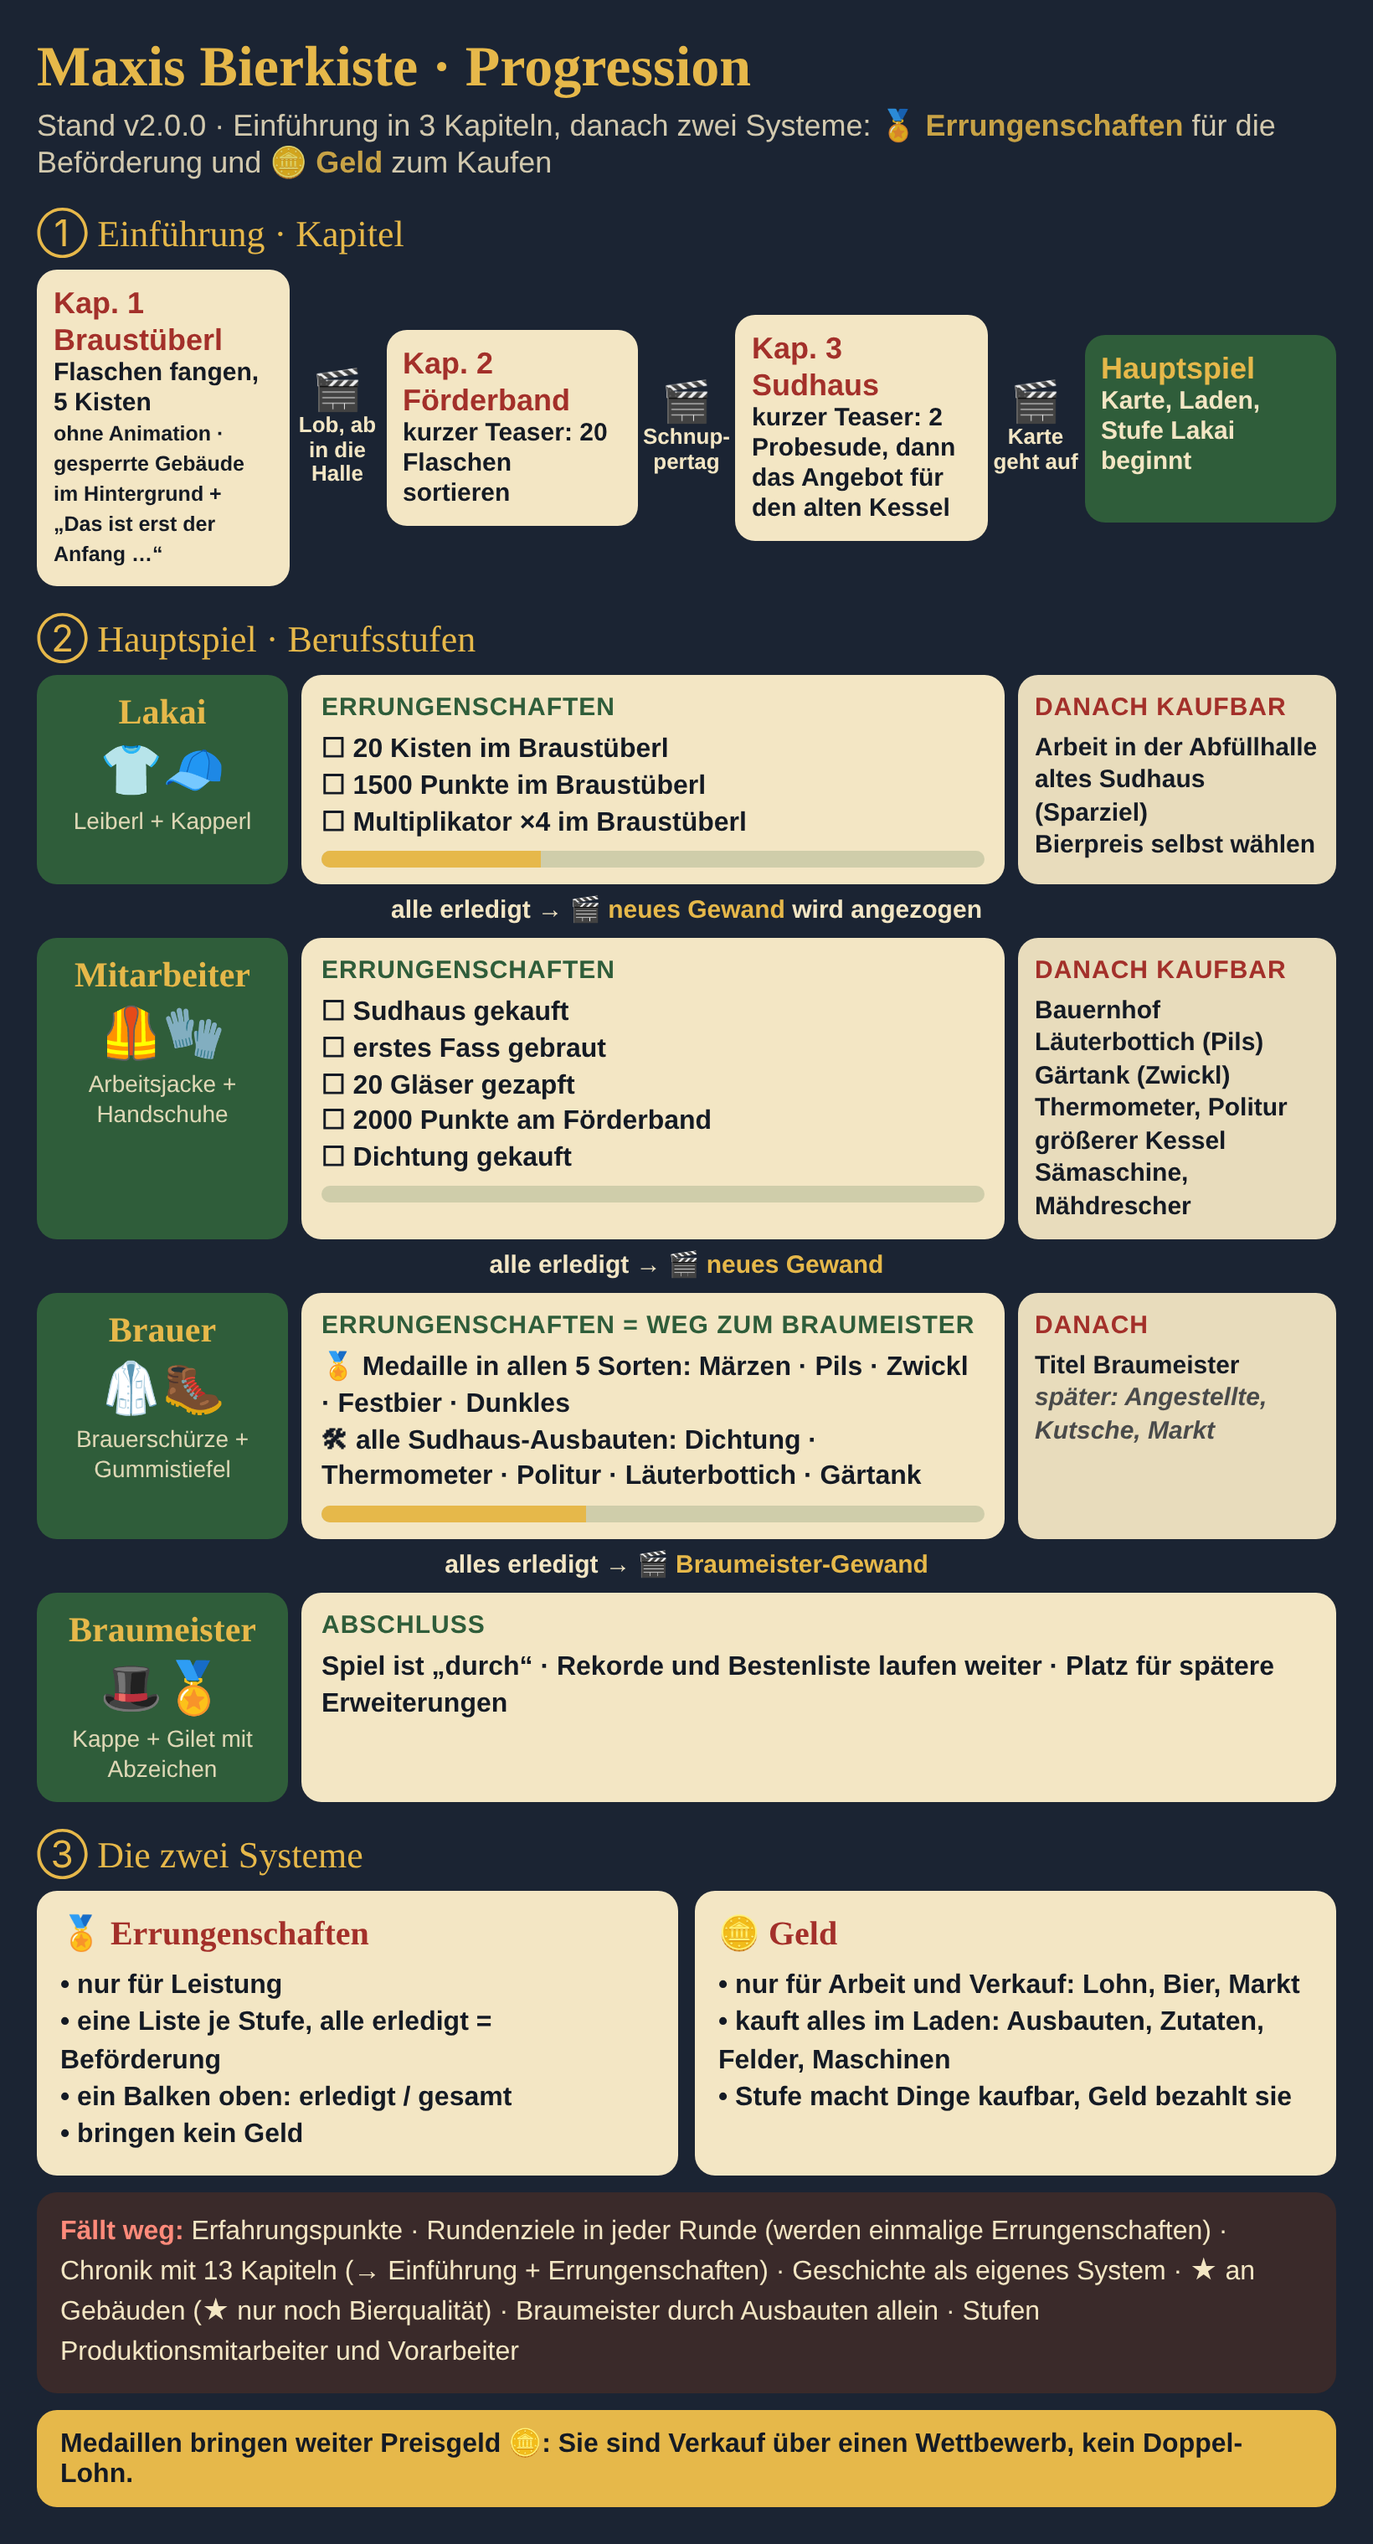
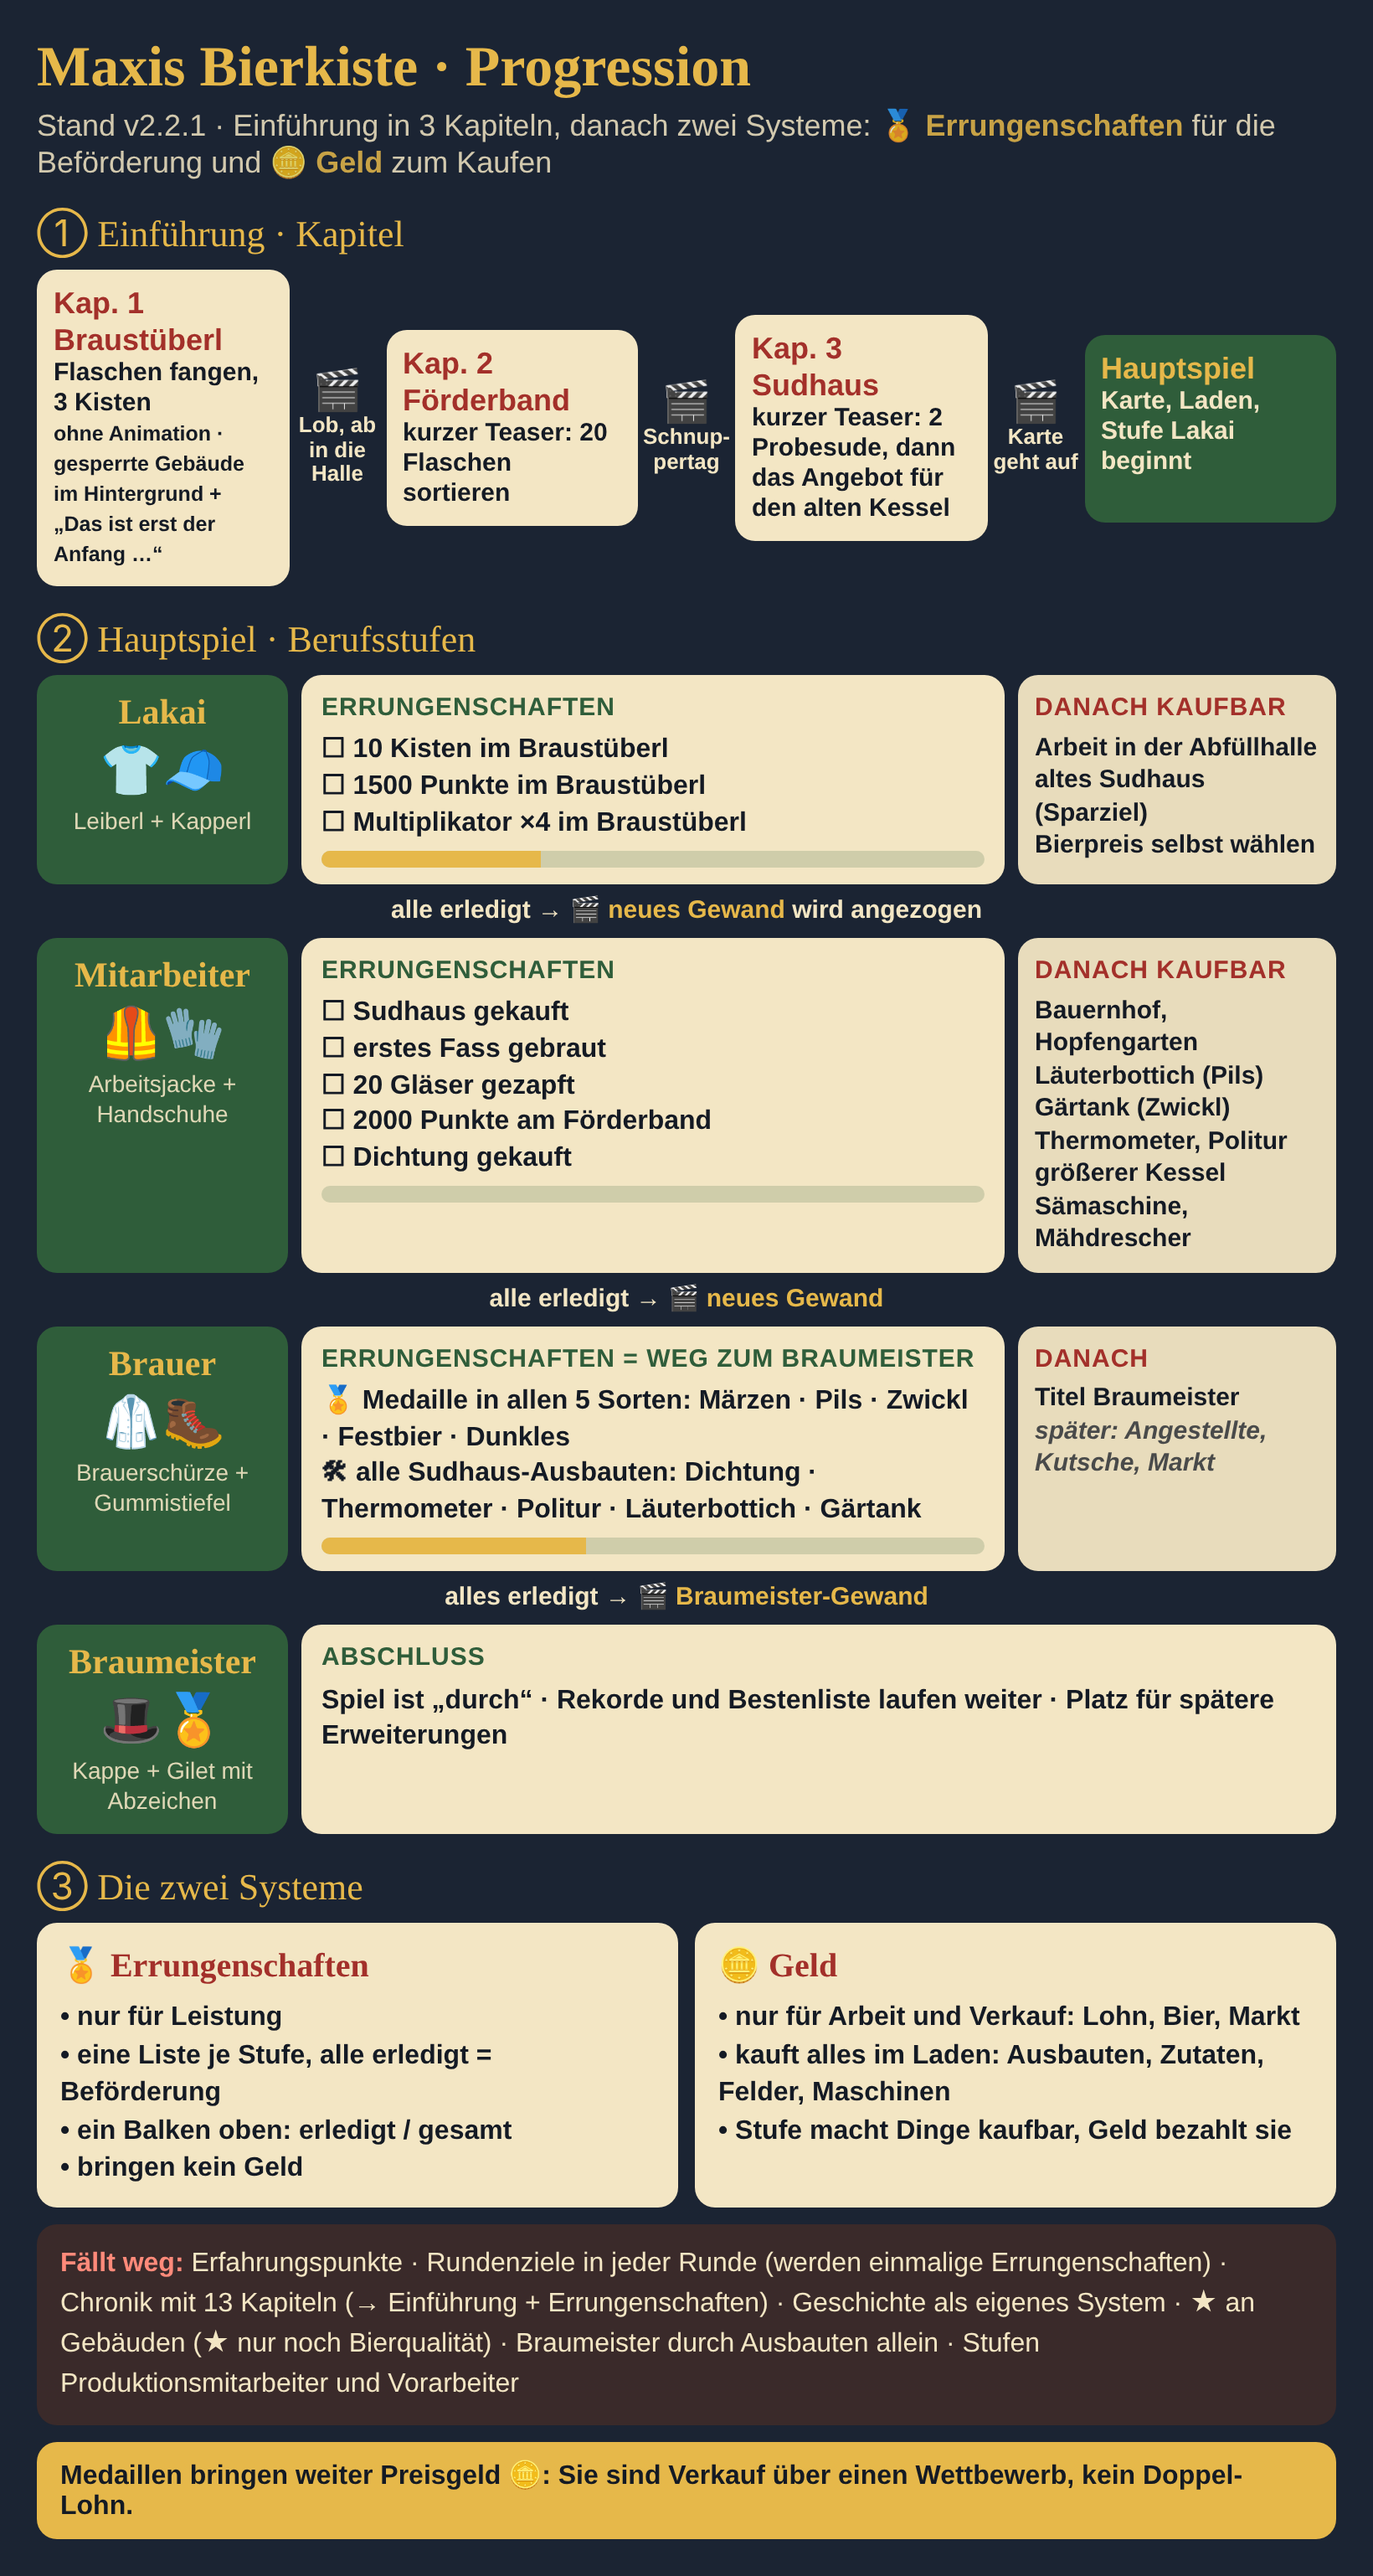
Maxi v2.2.1: Kapitel 1 nach 3 Kisten, Lakai braucht 10 Kisten
Claude-Session: https://claude.ai/code/session_01Gkkh1fuzQ6mRC4TS1qKwA5

diff --git a/apps/maxi/index.html b/apps/maxi/index.html
@@ -1666,7 +1666,7 @@ function scoreAch(){
 function goalInfo(){
   // Ziel im HUD: in der Einführung das Kapitel, danach eine offene Punkte-Errungenschaft
   if (stage >= 4) return null;
-  if (stage === 1 && ECO.story === 0) return { hud: `Kapitel 1 · ${Math.min(st().crates, 5)} / 5 Kisten`, head: 'Kapitel 1: Fülle 5 Kisten', sub: 'Fang die Flaschen und bring volle Kisten zur Abgabe. Das ist erst der Anfang …' };
+  if (stage === 1 && ECO.story === 0) return { hud: `Kapitel 1 · ${Math.min(st().crates, KAP1)} / ${KAP1} Kisten`, head: `Kapitel 1: Fülle ${KAP1} Kisten`, sub: 'Fang die Flaschen und bring volle Kisten zur Abgabe. Das ist erst der Anfang …' };
   if (stage === 2 && ECO.story === 1) return { hud: `Kapitel 2 · ${Math.min(L2.sorted, STORY_SORT)} / ${STORY_SORT} sortiert`, head: `${STORY_SORT} Flaschen sortieren`, sub: 'Dann holt dich der Braumeister ins Sudhaus.' };
   if (stage === 3 && L3.trial) return { hud: `Kapitel 3 · Probe ${Math.min(2, L3.brews)} / 2 Sude` };
   const a = scoreAch(); if (!a) return null;
@@ -1907,8 +1907,9 @@ function drawMedal(x, y, lv, s = 1){
    Eine Stufe macht Dinge im Laden kaufbar, bezahlt wird mit Talern. Übersicht: apps/maxi/docs/progression.md */
 const medalCount = (lv = 1) => Object.values(ECO.medals).filter(v => v >= lv).length;
 const st = () => ECO.stats;
+const KAP1 = 3; // volle Kisten bis zum Ende von Kapitel 1
 const KAPITEL = [
-  { t: 'Braustüberl', goal: 'Fülle 5 Kisten', p: () => [st().crates, 5] },
+  { t: 'Braustüberl', goal: `Fülle ${KAP1} Kisten`, p: () => [st().crates, KAP1] },
   { t: 'Förderband', goal: 'Sortiere die Flaschen am Band', p: () => [0, 1] },
   { t: 'Sudhaus', goal: 'Braue zwei Probesude', p: () => [0, 1] }
 ];
@@ -1916,7 +1917,7 @@ const topOf = s => Math.max(s === 1 ? best : s === 2 ? best2 : 0, (st().top || {
 const UPG5 = [['seal', 'Dichtung'], ['thermo', 'Thermometer'], ['copper', 'Politur'], ['lauter', 'Läuterbottich'], ['cellar', 'Gärtank']];
 // je Stufe die Errungenschaften für die nächste; st/pts: Punkteziel in einem Spiel (zeigt das HUD)
 const ACH = [
-  [ { id: 'l-kisten', t: '20 Kisten im Braustüberl', p: () => [st().crates, 20] },
+  [ { id: 'l-kisten', t: '10 Kisten im Braustüberl', p: () => [st().crates, 10] },
     { id: 'l-1500', t: '1500 Punkte im Braustüberl', st: 1, pts: 1500, p: () => [topOf(1), 1500] },
     { id: 'l-mult', t: 'Multiplikator ×4 im Braustüberl', p: () => [st().mult1 || 1, 4] } ],
   [ { id: 'm-sud', t: 'Sudhaus gekauft', p: () => [ECO.ownSud ? 1 : 0, 1] },
@@ -1938,7 +1939,7 @@ function progInit(){
   if (v >= 2) return;
   // alte Spielstände: Produktionsmitarbeiter und Vorarbeiter gibt es nicht mehr, schon Erreichtes zählt still
   rank = ECO.story >= 3 && rank >= 1 ? 1 : 0;
-  if (ECO.story >= 1) ECO.stats.crates = Math.max(ECO.stats.crates, 5);
+  if (ECO.story >= 1) ECO.stats.crates = Math.max(ECO.stats.crates, KAP1);
   for (const [n, k] of Object.entries(ECO.keller || {})){ ECO.stats.byName[n] = Math.max(ECO.stats.byName[n] || 0, k.f); ECO.stats.fass = Math.max(ECO.stats.fass, ECO.fass >= 1 ? 1 : 0); }
   if (ECO.story >= 3) while (rank < 3 && achAll(rank)) rank++;
   ECO.achSeen = ACH.flat().filter(achOk).map(a => a.id);
@@ -3628,9 +3629,9 @@ function renderMap(){
 }
 
 function checkPromo(){
-  // Punkte-Errungenschaft im laufenden Spiel erreicht; Kapitel 1 endet nach 5 Kisten
+  // Punkte-Errungenschaft im laufenden Spiel erreicht; Kapitel 1 endet nach KAP1 Kisten
   if (state !== 'play') return;
-  if (stage === 1 && ECO.story === 0 && st().crates >= 5){ storyHall(); return; }
+  if (stage === 1 && ECO.story === 0 && st().crates >= KAP1){ storyHall(); return; }
   if (Math.floor(tTotal*2) !== checkPromo.k){ checkPromo.k = Math.floor(tTotal*2); achWatch(); }
   if (goalHit) return; const a = scoreAch(); if (!a || score < a.pts) return;
   goalHit = true; st().top[stage] = Math.max(st().top[stage] || 0, score); saveEco();
@@ -3711,7 +3712,7 @@ function renderDress(){
    ECO.story: 0 Bar, 1 Förderband, 2 Schnuppertag im Sudhaus, 3 Karte offen */
 const SCENES = {
   hall: [
-    { bg: 'nice', who: 'bm', text: 'Maxi! Fünf volle Kisten und kaum eine Flasche kaputt. Saubere Arbeit!' },
+    { bg: 'nice', who: 'bm', text: 'Maxi! Drei volle Kisten und kaum eine Flasche kaputt. Saubere Arbeit!' },
     { bg: 'nice', who: 'maxi', text: 'Danke, Chef! Das macht richtig Spaß.' },
     { bg: 'nice', who: 'bm', text: 'Dann komm mit in die Abfüllhalle. Heute zeig ich dir das Förderband.' }
   ],
@@ -4448,7 +4449,7 @@ for (const el of document.querySelectorAll('[data-legal]')) el.addEventListener(
 $('legalClose').onclick = closeLegal;
 // Spielstand zurücksetzen: erster Tipp fragt nach, zweiter löscht alles außer dem Namen für die Bestenliste
 // Versionsnummer: bei jeder Veröffentlichung erhöhen (Hauptversion.Neue Funktionen.Korrekturen)
-const VERSION = '2.2.0';
+const VERSION = '2.2.1';
 $('verTag').textContent = `v${VERSION}`;
 $('resetBtn').onclick = () => {
   const b = $('resetBtn');

diff --git a/apps/maxi/README.md b/apps/maxi/README.md
@@ -12,14 +12,14 @@ Handyspiel im Hochformat für die Freetown Brewery: Maximilian Weichl steht vor 
 
 Übersicht mit Grafik: [docs/progression.md](docs/progression.md).
 
-**Einführung in 3 Kapiteln:** Kapitel 1 beginnt ohne Animation auf der Karte: Alles außer dem Braustüberl ist gesperrt („später“, „Das ist erst der Anfang …“). Nach 5 vollen Kisten lobt der Braumeister Maxi (Bilderszene) und holt ihn ans Förderband (Kapitel 2, Teaser: 20 Flaschen sortieren). Danach folgt der Schnuppertag im Sudhaus (Kapitel 3, Teaser: 2 Probesude) und das Angebot für den alten Kessel; dann ist die Karte offen (`ftb-eco` → `story` 0 bis 3).
+**Einführung in 3 Kapiteln:** Kapitel 1 beginnt ohne Animation auf der Karte: Alles außer dem Braustüberl ist gesperrt („später“, „Das ist erst der Anfang …“). Nach 3 vollen Kisten lobt der Braumeister Maxi (Bilderszene) und holt ihn ans Förderband (Kapitel 2, Teaser: 20 Flaschen sortieren). Danach folgt der Schnuppertag im Sudhaus (Kapitel 3, Teaser: 2 Probesude) und das Angebot für den alten Kessel; dann ist die Karte offen (`ftb-eco` → `story` 0 bis 3).
 
 **Zwei Systeme:** Errungenschaften (nur Leistung, bringen kein Geld) führen zur nächsten Berufsstufe; Taler (Lohn, Bierverkauf, Preisgeld) kaufen alles im Laden. Eine Stufe macht Dinge kaufbar, bezahlt wird mit Talern. Erfahrungspunkte, Rundenziele in jeder Runde, die Chronik mit 13 Kapiteln und die Sterne an Gebäuden gibt es nicht mehr.
 
 | Stufe | Errungenschaften für die nächste Stufe | danach kaufbar | Gewand |
 |---|---|---|---|
-| Brauereilakai | 20 Kisten im Braustüberl · 1500 Punkte im Braustüberl · Multiplikator ×4 im Braustüberl | Abfüllhalle, altes Sudhaus, eigener Bierpreis | Leiberl und Kapperl |
-| Mitarbeiter | Sudhaus gekauft · erstes Fass · 20 Gläser gezapft · 2000 Punkte am Förderband · Dichtung | Bauernhof, Läuterbottich, Gärtank, Thermometer, Politur, größerer Kessel, Sämaschine, Mähdrescher | Arbeitsjacke und Handschuhe |
+| Brauereilakai | 10 Kisten im Braustüberl · 1500 Punkte im Braustüberl · Multiplikator ×4 im Braustüberl | Abfüllhalle, altes Sudhaus, eigener Bierpreis | Leiberl und Kapperl |
+| Mitarbeiter | Sudhaus gekauft · erstes Fass · 20 Gläser gezapft · 2000 Punkte am Förderband · Dichtung | Bauernhof, Hopfengarten, Läuterbottich, Gärtank, Thermometer, Politur, größerer Kessel, Sämaschine, Mähdrescher | Arbeitsjacke und Handschuhe |
 | Brauer | Medaille in allen 5 Sorten · alle 5 Sudhaus-Ausbauten (Dichtung, Thermometer, Politur, Läuterbottich, Gärtank) | – | Brauerschürze und Gummistiefel |
 | Braumeister | – | – | Braumeisterkappe und Gilet |
 
@@ -117,6 +117,7 @@ Zu Beginn jeder Runde zeigt eine Karte das aktuelle Ziel (bis zum Produktionsmit
 
 Die Versionsnummer steht im Startmenü unten neben „Spielstand zurücksetzen“ (`VERSION` in `index.html`). Schema: Hauptversion.Neue Funktionen.Korrekturen; bei jeder Veröffentlichung erhöhen.
 
+- **2.2.1** – Kapitel 1 endet nach 3 Kisten, Lakai braucht 10 Kisten statt 20
 - **2.2.0** – Hopfengarten mit Ernte im Wisch-Spiel
 - **2.1.0** – Edelmalz aus der eigenen Mälzerei (mit Thermometer)
 - **2.0.0** – Progression neu: Einführung in 3 Kapiteln, Berufsstufen über Errungenschaften mit Gewand-Animation, ein Balken, Bauernhof, Qualitätspreis

diff --git a/apps/maxi/docs/progression.md b/apps/maxi/docs/progression.md
@@ -1,14 +1,14 @@
-# Progression · Ausgangsbasis (Stand v2.0.0)
+# Progression · Ausgangsbasis (Stand v2.2.1)
 
 Diese Übersicht ist die verbindliche Grundlage für Maxis Bierkiste. Neue Funktionen werden hier eingeordnet, bevor sie gebaut werden.
 
-![Progression v2.0.0](progression.png)
+![Progression v2.2.1](progression.png)
 
 ## Einführung: 3 Kapitel
 
 | Kapitel | Spiel | Ende |
 |---|---|---|
-| 1 Braustüberl | Flaschen fangen, 5 Kisten. Ohne Animation; auf der Karte ist alles außer dem Braustüberl gesperrt („Das ist erst der Anfang …“) | 🎬 Lob vom Braumeister, ab in die Halle |
+| 1 Braustüberl | Flaschen fangen, 3 Kisten. Ohne Animation; auf der Karte ist alles außer dem Braustüberl gesperrt („Das ist erst der Anfang …“) | 🎬 Lob vom Braumeister, ab in die Halle |
 | 2 Förderband | Teaser: 20 Flaschen sortieren | 🎬 Einladung zum Schnuppertag |
 | 3 Sudhaus | Teaser: 2 Probesude | 🎬 Angebot für den alten Kessel, Karte offen |
 
@@ -26,8 +26,8 @@ Alle Kapitel außer dem ersten beginnen mit einer Animation.
 
 | Stufe | Gewand (Animation bei der Beförderung) | Errungenschaften für die nächste Stufe | danach kaufbar |
 |---|---|---|---|
-| Brauereilakai | Leiberl + Kapperl | 20 Kisten im Braustüberl · 1500 Punkte im Braustüberl · Multiplikator ×4 im Braustüberl | Abfüllhalle, altes Sudhaus, eigener Bierpreis |
-| Mitarbeiter | Arbeitsjacke + Handschuhe | Sudhaus gekauft · erstes Fass · 20 Gläser · 2000 Punkte am Förderband · Dichtung | Bauernhof, Läuterbottich, Gärtank, Thermometer, Politur, größerer Kessel, Sämaschine, Mähdrescher |
+| Brauereilakai | Leiberl + Kapperl | 10 Kisten im Braustüberl · 1500 Punkte im Braustüberl · Multiplikator ×4 im Braustüberl | Abfüllhalle, altes Sudhaus, eigener Bierpreis |
+| Mitarbeiter | Arbeitsjacke + Handschuhe | Sudhaus gekauft · erstes Fass · 20 Gläser · 2000 Punkte am Förderband · Dichtung | Bauernhof, Hopfengarten, Läuterbottich, Gärtank, Thermometer, Politur, größerer Kessel, Sämaschine, Mähdrescher |
 | Brauer | Brauerschürze + Gummistiefel | Medaille in allen 5 Sorten + alle 5 Sudhaus-Ausbauten | Titel Braumeister |
 | Braumeister | Braumeisterkappe + Gilet mit Abzeichen | – | später: Angestellte, Kutsche, Markt |
 
